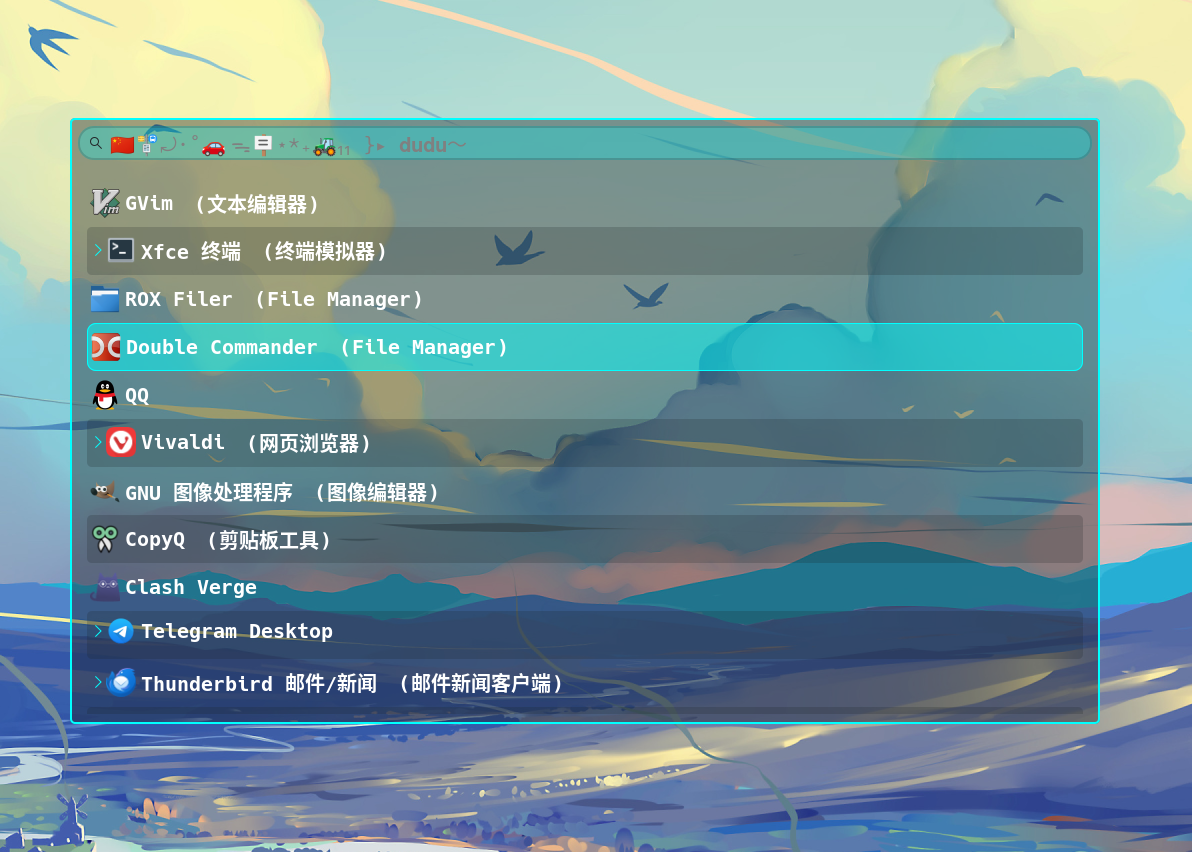
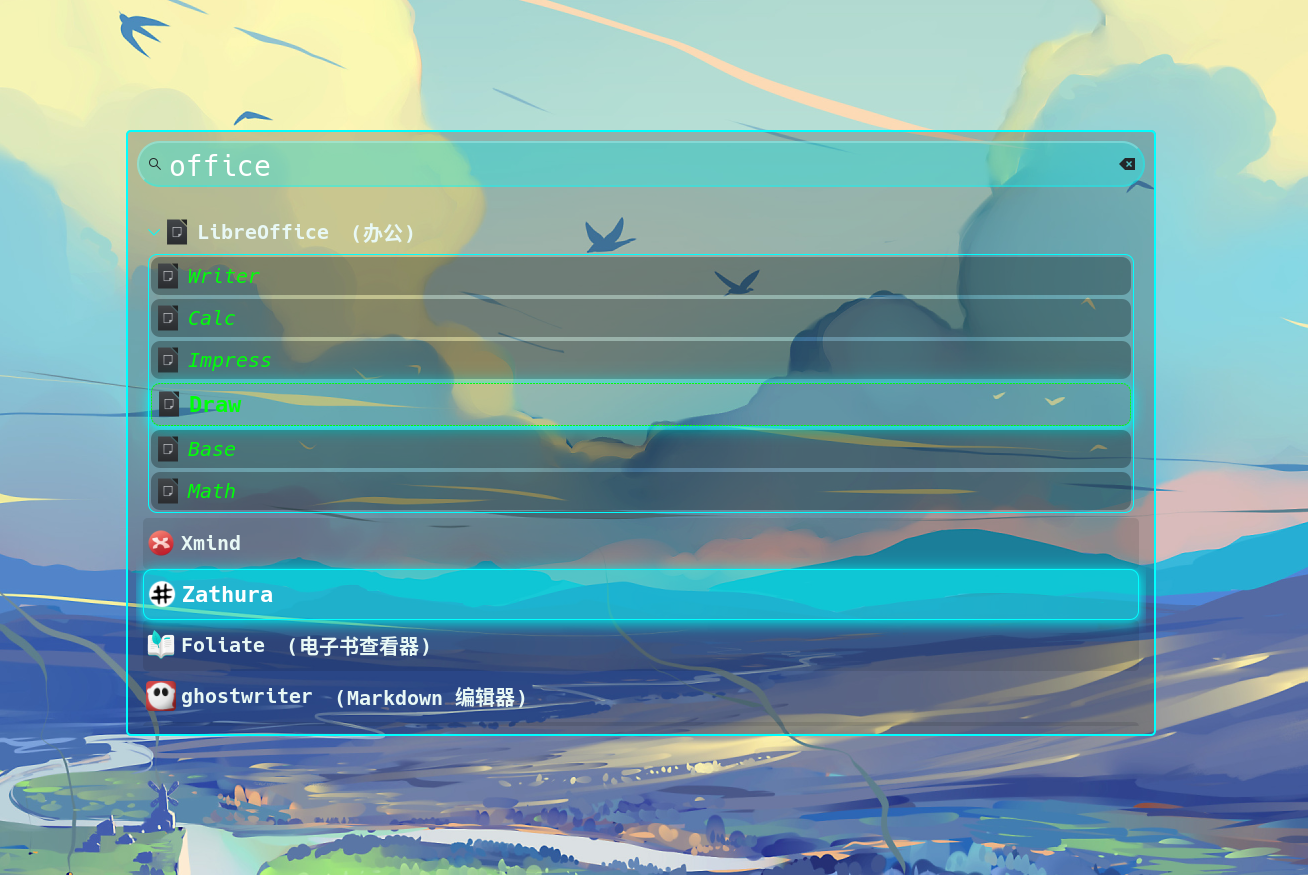
微调圆角和字体，重新截图。

diff --git a/cyan/style.css b/cyan/style.css
@@ -15,7 +15,7 @@ window {
 
 /*搜索框*/
 #input {
-    margin: 5px;
+    margin: 8px;
     border-radius: 24px;
     border: 2px outset rgba(0,255,255,0.3);
     background-color: rgba(0,255,255,0.3);
@@ -24,7 +24,7 @@ window {
     color: white;
 }
 
-/*搜索框特效*/
+/*聚集在搜索框时的特效*/
 #input:focus {
       box-shadow: rgba(0,255,255,0.4) 0px 0px 10px 2px, rgba(0,255,255, 0.65) 0px 4px 6px -1px, rgba(0,255,255, 0.08) 0px 1px 0px inset;
   }
@@ -109,6 +109,7 @@ window {
         color: rgba(0,255,8,1);
         font-size: 20px;
         font-weight: normal;
+        font-style: italic;
     }
 
     /*子项目的选中项*/
@@ -120,6 +121,7 @@ window {
     /*子项目选中项的字体颜色*/
     #entry.activatable:selected #text {
         font-size: 22px;
+        font-style: normal;
         font-weight: bold;
         color: rgba(0,255,8,1);
     }
